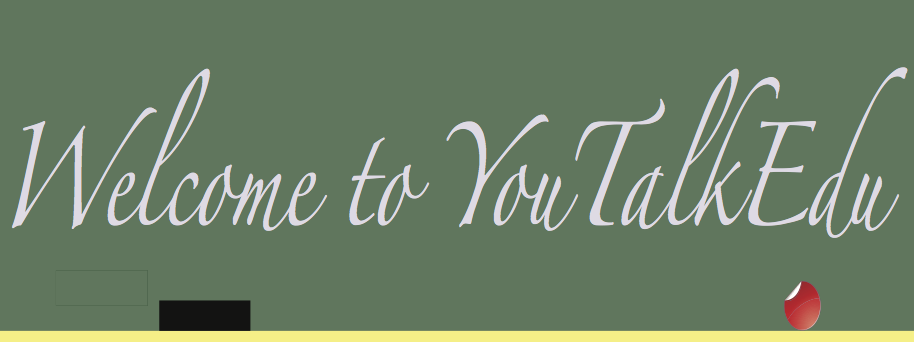
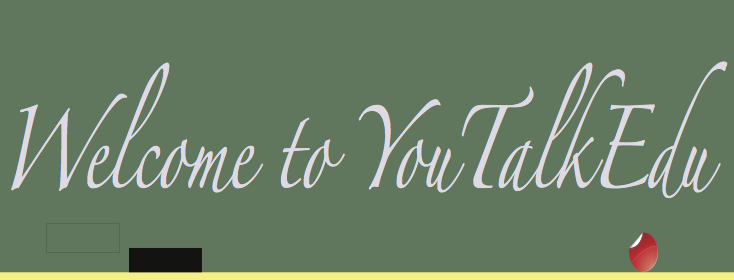
Smaller welcome image added

diff --git a/docs/deploy.rst b/docs/deploy.rst
@@ -66,11 +66,6 @@ Check the current release, and rollback if necessary
     $ heroku releases
     $ heroku releases:rollback vNUMBER
 
-Databases::
-
-   $ heroku pg
-   $ heroku pg:promote DATABASE_NAME
-
 To add add-ons,
   
     $ heroku addons:add NAME:VERSION
@@ -89,6 +84,12 @@ To add a (free) database and promote it (so DATABASE_URL is set), type::
     $ heroku addons:add heroku-postgresql:dev
     $ heroku pg:promote DB_NAME
     $ heroku pg:info
+
+Heroku pg-extra features (see https://github.com/heroku/heroku-pg-extras)::
+
+   $ heroku plugins:install git://github.com/heroku/heroku-pg-extras.git
+   $ heroku pg:cache_hit
+   $ heroku pg:index_usage
 
 
 Config environ vars, or pull them from environment::

diff --git a/README.rst b/README.rst
@@ -1,6 +1,6 @@
 TODO:
 =============
-#) Try out $50/month DB, see if auto-caches
+#) Reduce ppi on Welcome image
 #) Fix sharing tags -- no image appearing for Google+, check into Facebook problems? 
 #) Twitter- Have complaints about school or ideas for improvement? Let the world know by joining the discussion on YouTalkEdu.com
 #) ASK PEOPLE TO USE AND TEST -- youtalkedu.herokuapp.com
